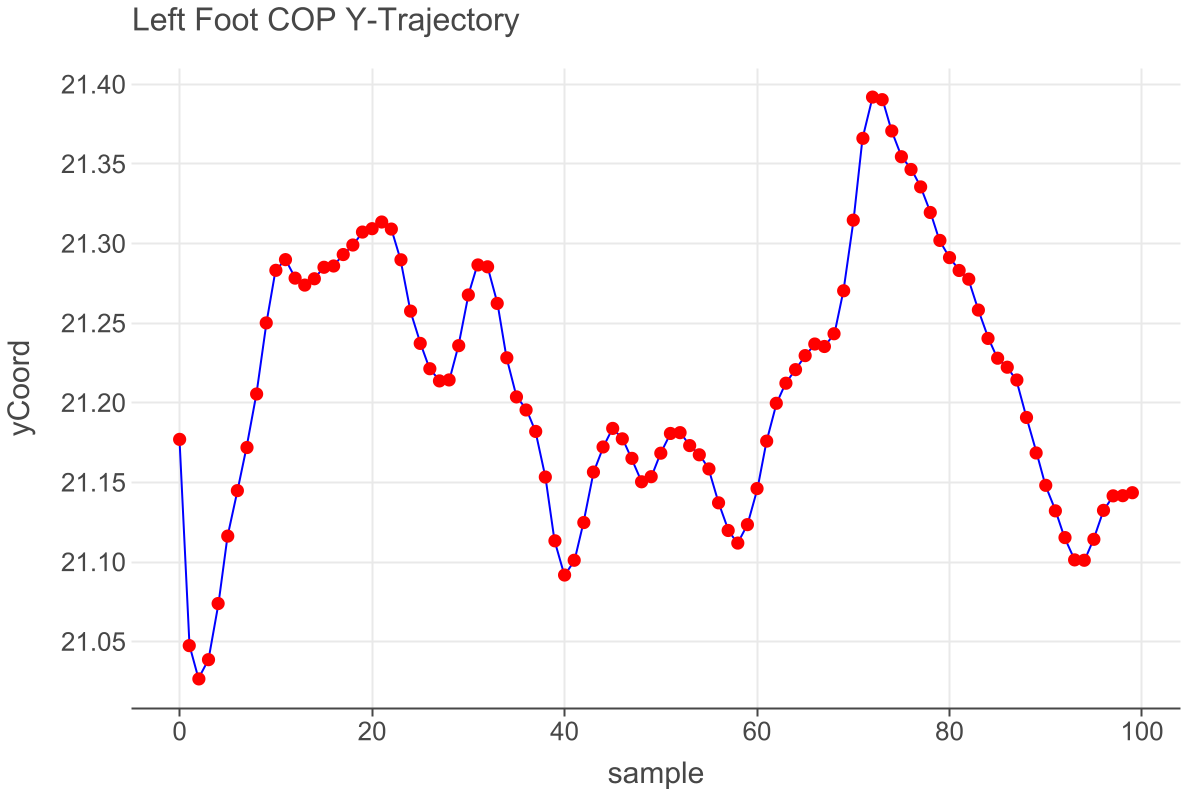
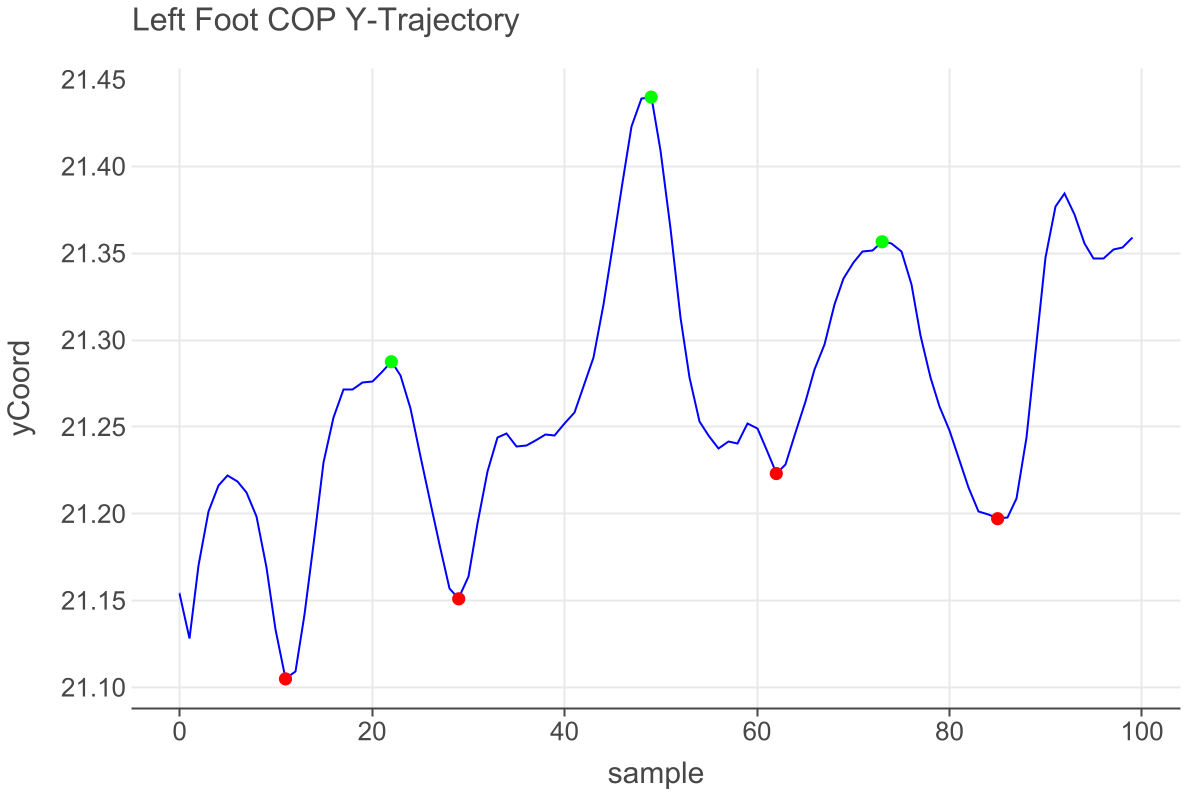
Add Lets-Plot integration and remove unused coplibrary files
- Introduced Lets-Plot dependencies for data visualization.
- Added a plot generation feature in Main.kt to visualize COP data.
- Removed the coplibrary module and its associated files as they are no longer needed.
- Configured VCS settings for the project.

diff --git a/src/main/kotlin/Main.kt b/src/main/kotlin/Main.kt
@@ -6,6 +6,12 @@ import org.example.ButterLowpassFilter
 import org.example.PeakDetector
 import kotlin.math.cos
 import kotlin.math.sin
+import jetbrains.letsPlot.export.ggsave
+import jetbrains.letsPlot.geom.geomLine
+import jetbrains.letsPlot.geom.geomPoint
+import jetbrains.letsPlot.letsPlot
+import jetbrains.letsPlot.label.ggtitle
+
 
 
 fun main() {
@@ -88,31 +94,58 @@ fun main() {
 
 
     /* ----------------------------- Filter COP data ---------------------------- */
-    val filteredLeftY = ButterLowpassFilter.filter(
-        leftCopY, // We use only Y axis data
-        cutoff = 2.5,
-        fs = 100.0,
-        order = 2
-    )
+//    val filteredLeftY = ButterLowpassFilter.filter(
+//        leftCopY, // We use only Y axis data
+//        cutoff = 2.5,
+//        fs = 100.0,
+//        order = 2
+//    )
 
     /* -------------------------------------------------------------------------- */
     /*                                 Find Peaks                                 */
     /* -------------------------------------------------------------------------- */
     val (positivePeaks, negativePeaks) = PeakDetector.findPeaks(
-        filteredLeftY,
+        leftCopY,
         prominence = 0.1, // Adjust based on your signal
         distance = 1     // Minimum samples between peaks
     )
 
+
+    /* ---------------------------------- Plot ---------------------------------- */
+    val data = mapOf(
+        "sample" to (0 until sampleCount).toList(),
+        "yCoord" to leftCopY.toList()
+    )
+
+    val positivePeakData = mapOf(
+        "sample" to positivePeaks,
+        "yCoord" to positivePeaks.map { leftCopY[it] }
+    )
+
+    val negativePeakData = mapOf(
+        "sample" to negativePeaks,
+        "yCoord" to negativePeaks.map { leftCopY[it] }
+    )
+
+    val plot = letsPlot(data) +
+        geomLine(color = "blue") { x = "sample"; y = "yCoord" } +
+        geomPoint(data = positivePeakData, color = "green", size = 3.0) { x = "sample"; y = "yCoord" } +
+        geomPoint(data = negativePeakData, color = "red", size = 3.0) { x = "sample"; y = "yCoord" } +
+        ggtitle("Left Foot COP Y-Trajectory")
+
+    // Save plot to file
+    ggsave(plot, "cop_plot.png")
+    /* ------------------------------------ x ----------------------------------- */
+
     println("these are the positive peaks, $positivePeaks")
 
     positivePeaks.forEachIndexed { index, value ->
-        println("Positive peak $index at sample $value: ${"%.2f".format(filteredLeftY[value])}")
+        println("Positive peak $index at sample $value: ${"%.2f".format(leftCopY[value])}")
     }
 
     println("these are the negative peaks, $negativePeaks")
     negativePeaks.forEachIndexed {inde, value ->
-        println("Negative peak $inde at sample $value: ${"%.2f".format(filteredLeftY[value])}")
+        println("Negative peak $inde at sample $value: ${"%.2f".format(leftCopY[value])}")
     }
 
 }
